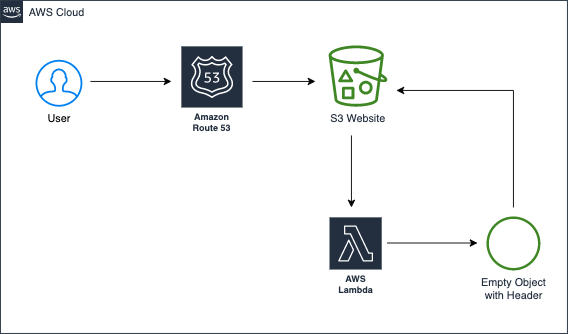
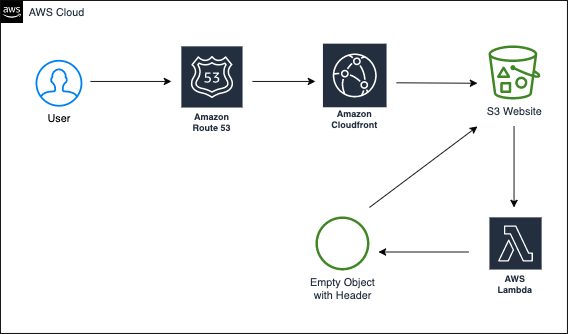
readme updates

diff --git a/README.md b/README.md
@@ -4,7 +4,7 @@
 
 ## Overview
 
-Welcome to the world's **simplest** URL Shortening service! Built on AWS using Serverless services, this product takes any URL and returns a shortened URL, which simply forwards to the original input URL. This product works similar to [tiny.url](tinyurl.com) and [bit.ly](https://bitly.com/) but is completely open source!
+Welcome to the world's **simplest** URL Shortening service! Built on AWS using Serverless services, this product takes any URL and returns a shortened URL, which simply forwards to the original input URL. This product works similarly to [tiny.url](tinyurl.com) and [bit.ly](https://bitly.com/) but is completely open source!
 
 If you google search "Systems Design Interview URL Shortening" and read some of the links, you will see some rock-solid yet kind of complicated system designs. The idea behind this project was to make an architecture for a URL shortening service using the **least** amount of services and complexity as possible.
 
@@ -12,14 +12,24 @@ If you google search "Systems Design Interview URL Shortening" and read some of 
 
 ![Architecture](/.github/images/architecture.png)
 
-Basically, a user provides a long URL to the S3 website, which in turn calls a Lambda function. The Lambda function simply creates an empty S3 Object, named with a random 5 character string, with nothing but a Metadata header for `x-amz-website-redirect-location` with the long URL. The shortened link is then provided for the user to test.
+Basically, a user goes to a CloudFront S3 website, provides a long URL which then invokes a Lambda function. The Lambda function simply creates an empty S3 Object, named with a random 5 character string, with a Metadata header for `x-amz-website-redirect-location` referencing long URL. The shortened link is then provided back to the website for the user to test.
 
 A more accurate AWS architecture diagram is as follows:
 
 ![AWS Architecture](/.github/images/aws_architecture.png)
 
+## Host your own
+
+In order to host your own AWS URL Shortener, you need only three things:
+
+1. An AWS Account
+2. A Domain Name that resides in Route53
+3. A wildcard (e.g `*.makeitshort.link`) SSL Certificate
+
+If you possess those three things, go ahead and fork this repo and update your Terraform env variables. The GitHub Actions workflow should take care of the creation after that!
+
 ## Contributing
 
 Please feel free to reach out directly via a Pull Request or contact me via a DM: [@paulmarsicloud](https://twitter.com/paulmarsicloud)
 
-There are **many** shortcomings of this URL Shortener - namely HTTPS. However, I have put together a [Roadmap](https://github.com/paulmarsicloud/aws-url-shortener/wiki/Roadmap!) as this is where we'll keep track of upcoming changes on the horizon!
+There are **many** shortcomings of this URL Shortener - however, I have put together a [Roadmap](https://github.com/paulmarsicloud/aws-url-shortener/wiki/Roadmap!) as this is where we'll keep track of upcoming changes on the horizon!
